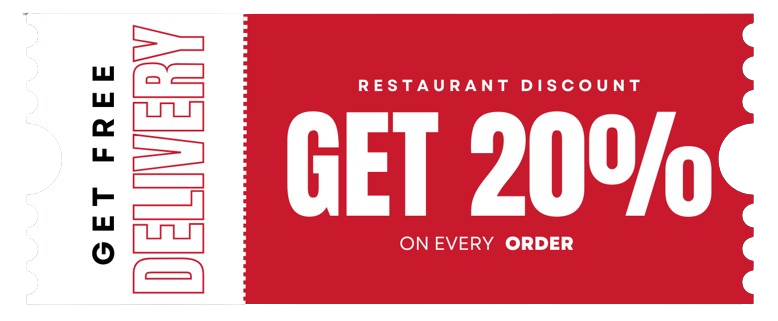
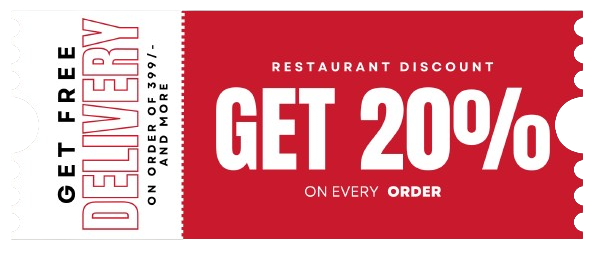
changes into this

diff --git a/src/components/DisplayOrder.jsx b/src/components/DisplayOrder.jsx
@@ -27,9 +27,18 @@ const DisplayOrder = () => {
     return (
         <div className=' mx-3 px-5 py-3 bg-white drop-shadow-xl shadow-top'>
             <h2 className=' bg-amber-300 p-2 rounded-t-xl text-lg font-bold '>Order ID: {order.orderId}</h2>
-            <h2 className=' bg-slate-50 p-2 rounded-b-xl text-slate-800  text-lg font-bold '>Total Amount : ₹{(order.totalCost / 1.2).toFixed(2)}</h2>
-            <p className='py-1 px-1 text-lg text-gray-700 font-semibold text-center'>After 20% discount on {(order.totalCost)}</p>
+            {order.totalCost < 399 ? (
+                <h2 className=' border border-slate-400 p-2 rounded-b-xl text-slate-800 text-lg font-bold'>
+                    Total Amount: ₹{((order.totalCost - (order.totalCost * 0.2)) + 40).toFixed(2)}
+                </h2>
+            ) : (
+                <h2 className='border border-slate-400 p-2 rounded-b-xl text-slate-800 text-lg font-bold'>
+                    Total Amount: ₹{(order.totalCost - (order.totalCost * 0.2)).toFixed(2)}
+                </h2>
+            )}
+            <p className='py-1 px-1 text-sm text-gray-700 font-semibold text-center'>After 20% discount on {(order.totalCost)}</p>
             <ul className=' p-4 space-y-5 list-decimal'>
+
                 {order.items.map(item => (
                     <li key={item.id}>
                         <h3 className=' text-lg font-semibold underline underline-offset-2'>{item.name}</h3>
@@ -37,7 +46,14 @@ const DisplayOrder = () => {
                         <p>Quantity: {item.quantity}</p>
                     </li>
                 ))}
+                {order.totalCost < 399 && (
+                    <div>
+                        <p className='py-1 px-1 text-sm text-gray-700 font-semibold text-center'>₹ 40 has been added as a delivery charge.</p>
+                        <p className='py-1 px-1 text-sm text-gray-700 font-semibold text-center'>Free delivery over order of 399/-</p>
+                    </div>
+                )}
             </ul>
+
             <div className='flex flex-col space-y-2'>
                 <button className=' px-5 py-2 border-2 border-red-500 bg-red-200 rounded-lg' onClick={handleDeleteOrder}>Delete Order</button>
             </div>

diff --git a/src/components/ItemsChoice.jsx b/src/components/ItemsChoice.jsx
@@ -12,7 +12,6 @@ function ItemsChoice() {
         setTimeout(() => {
             navigate(`/items/${genre.toLowerCase()}`)
         }, 500)
-
     }
 
     return (
@@ -26,7 +25,7 @@ function ItemsChoice() {
                 <div className=''>
                     {firstRowItems.map((item, index) => (
                         <div key={index} className="inline-block max-w-xs p-2 h-24 w-24 mx-2 bg-white rounded-3xl" onClick={() => handleGenreClick(item.name)}>
-                            <img src={item.imageSrc} alt={item.name} className=" drop-shadow-xl w-fit h-fit object-cover rounded-t-lg" />
+                            <img src={item.imageSrc} alt={item.name} className=" drop-shadow-xl w-fit h-fit max-h-24 max-w-24 object-cover rounded-t-lg" />
                             <div className="p-2">
                                 <p className="text-gray-800 font-semibold text-center">{item.name}</p>
                             </div>
@@ -36,7 +35,7 @@ function ItemsChoice() {
                 <div className=''>
                     {secondRowItems.map((item, index) => (
                         <div key={index} className="inline-block max-w-xs p-2 h-24 w-24 mx-2 bg-white rounded-3xl" onClick={() => handleGenreClick(item.name)}>
-                            <img src={item.imageSrc} alt={item.name} className="  drop-shadow-xl w-fit h-fit object-cover rounded-t-lg" />
+                            <img src={item.imageSrc} alt={item.name} className="  drop-shadow-xl w-fit h-fit max-h-24 max-w-24 object-cover rounded-t-lg" />
                             <div className="p-2">
                                 <p className="text-gray-800 font-semibold text-center">{item.name}</p>
                             </div>

diff --git a/src/pages/MyAccount.jsx b/src/pages/MyAccount.jsx
@@ -10,9 +10,18 @@ function MyAccount() {
 
     useEffect(() => {
         const storedOrders = JSON.parse(localStorage.getItem('myOrders')) || []
-        const sortedOrders = storedOrders.sort((a, b) => new Date(b.date) - new Date(a.date))
-        setOrders(sortedOrders);
+
+        const convertDate = (dateStr) => {
+            const [datePart, timePart] = dateStr.split(', ')
+            const [day, month, year] = datePart.split('/')
+            return new Date(`${year}-${month}-${day}T${timePart}`)
+        }
+
+        const sortedOrders = storedOrders.sort((a, b) => convertDate(b.date) - convertDate(a.date))
+        setOrders(sortedOrders)
     }, [])
+
+    console.log(orders)
 
     const GoBack = () => {
         navigate('/')
@@ -66,10 +75,11 @@ function MyAccount() {
                         ))}
                     </div>
                 )}
-                <div className=' mt-5 flex justify-center'>
+                <div className=' mt-5 flex flex-col items-center'>
                     <button onClick={deleteOrders} className="bg-red-500 text-white  px-4 py-2 rounded-md mb-4 ml-4">
                         Clear Orders
                     </button>
+                    <h1 className='text-md font-semibold px-5 text-center'>IF Any issues in Placing order or delivery not received please contact us on 9923388852</h1>
                 </div>
             </div>
             <Footer />

diff --git a/src/components/orderForm.jsx b/src/components/orderForm.jsx
@@ -51,7 +51,13 @@ function OrderForm() {
     }
 
     const placeOrder = async () => {
-        const discountedTotalCost = (order.totalCost / 1.2).toFixed(2)
+        let discountedTotalCost = (order.totalCost - (order.totalCost * 0.2)).toFixed(2)
+
+
+        if (discountedTotalCost < 333) {
+            discountedTotalCost = (parseFloat(discountedTotalCost) + 40).toFixed(2)
+        }
+
         const newOrder = {
             orderId: Date.now(),
             name,
@@ -206,7 +212,7 @@ function OrderForm() {
                             />
                             <label htmlFor="cod" className="ml-3 block text-sm font-medium text-gray-700">COD (Cash on Delivery)</label>
                         </div>
-                        <div className="flex items-center">
+                        {/* <div className="flex items-center">
                             <input
                                 id="payNow"
                                 name="paymentMethod"
@@ -218,7 +224,7 @@ function OrderForm() {
                                 required
                             />
                             <label htmlFor="payNow" className="ml-3 block text-sm font-medium text-gray-700">Pay Now</label>
-                        </div>
+                        </div> */}
                     </div>
                 </div>
                 <button
